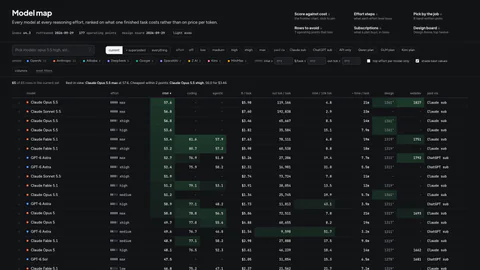
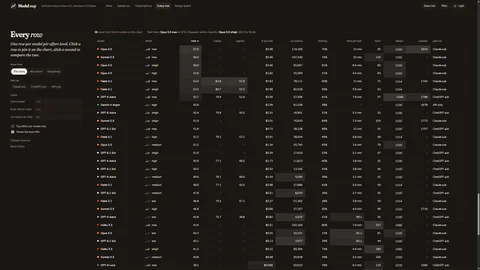
chore: refresh model map screenshots at 1440p (ccChat-general-13c3)

diff --git a/src/lib/showcase-images-generated.ts b/src/lib/showcase-images-generated.ts
@@ -66,23 +66,23 @@ export const SHOWCASE_IMAGES = {
[1 lines of base64/hex data omitted]
         color: "#cec4b8",
     },
-    // models-extra-frontier-1920x1080-2x.png
+    // models-frontier.png
     "models-frontier": {
         src: "/showcase/models-frontier-2560.webp",
         width: 2560,
         height: 1440,
         srcSet: "/showcase/models-frontier-480.webp 480w, /showcase/models-frontier-800.webp 800w, /showcase/models-frontier-1200.webp 1200w, /showcase/models-frontier-1600.webp 1600w, /showcase/models-frontier-2000.webp 2000w, /showcase/models-frontier-2560.webp 2560w",
[1 lines of base64/hex data omitted]
-        color: "#161719",
[1 lines of base64/hex data omitted]
+        color: "#1f1b17",
     },
-    // models-table-1920x1080-2x.png
+    // models.png
     models: {
         src: "/showcase/models-2560.webp",
         width: 2560,
         height: 1440,
         srcSet: "/showcase/models-480.webp 480w, /showcase/models-800.webp 800w, /showcase/models-1200.webp 1200w, /showcase/models-1600.webp 1600w, /showcase/models-2000.webp 2000w, /showcase/models-2560.webp 2560w",
[1 lines of base64/hex data omitted]
-        color: "#171a1c",
[1 lines of base64/hex data omitted]
+        color: "#201c19",
     },
     // nakup-2-she-adds-390x844-3x.png
     "nakup-adds": {

diff --git a/src/lib/showcase.ts b/src/lib/showcase.ts
@@ -154,7 +154,7 @@ export const SHOWCASE: ShowcaseProject[] = [
         shots: [
             {
                 image: SHOWCASE_IMAGES.models,
-                alt: "model map's ranked table of models and reasoning efforts, with filters above and the best value in each column shaded",
+                alt: "model map's ranked table of models and reasoning efforts, with filters alongside and the best value in each column shaded",
                 caption: "a snapshot; today's ranking has probably moved",
             },
             {
